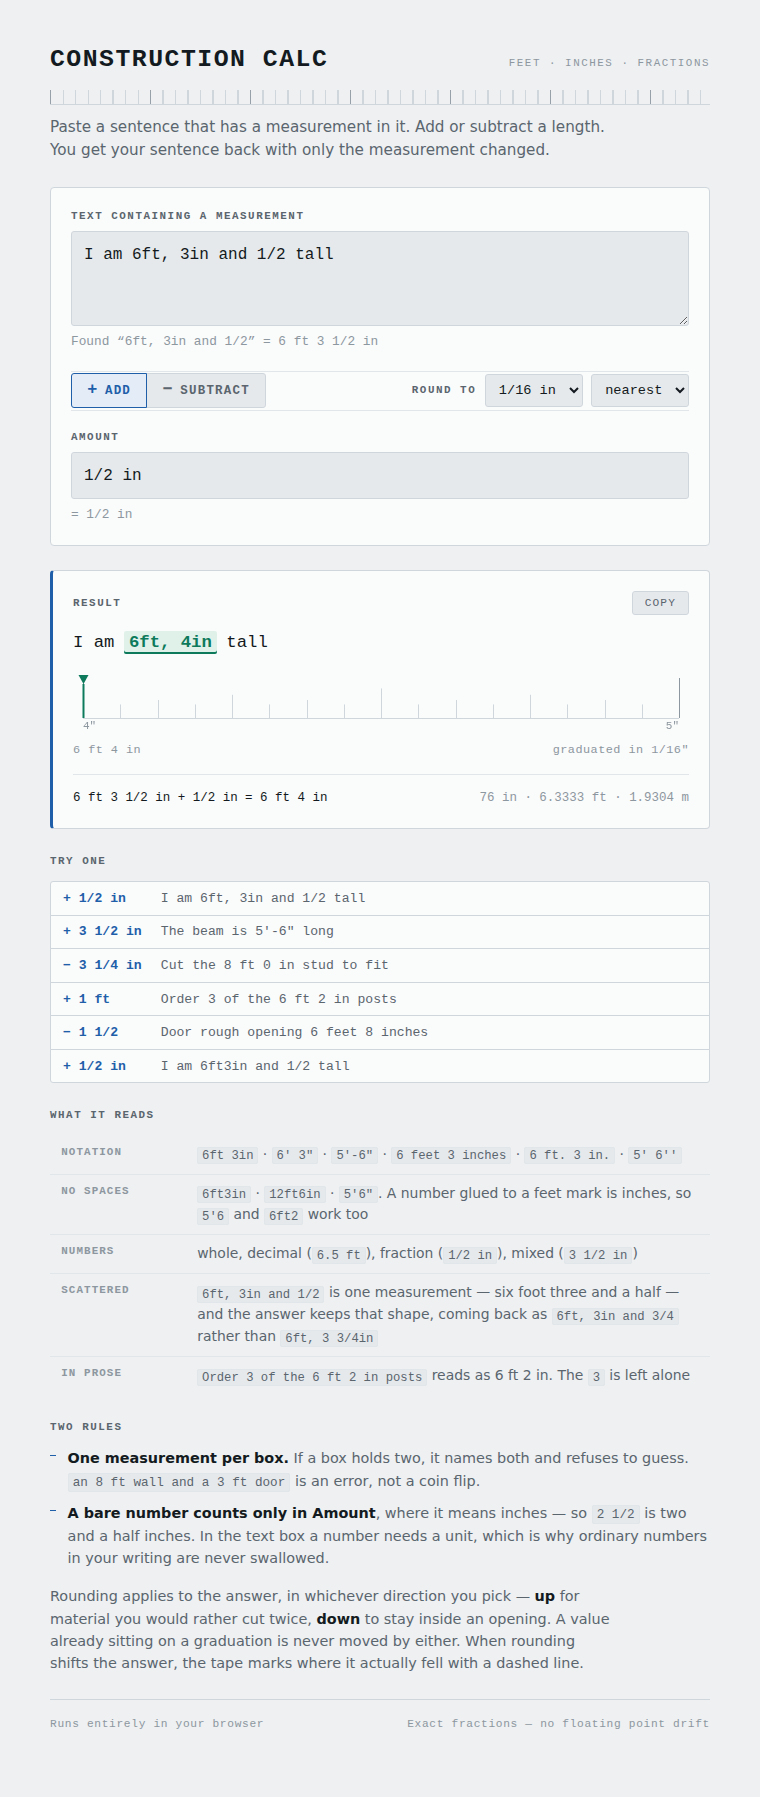
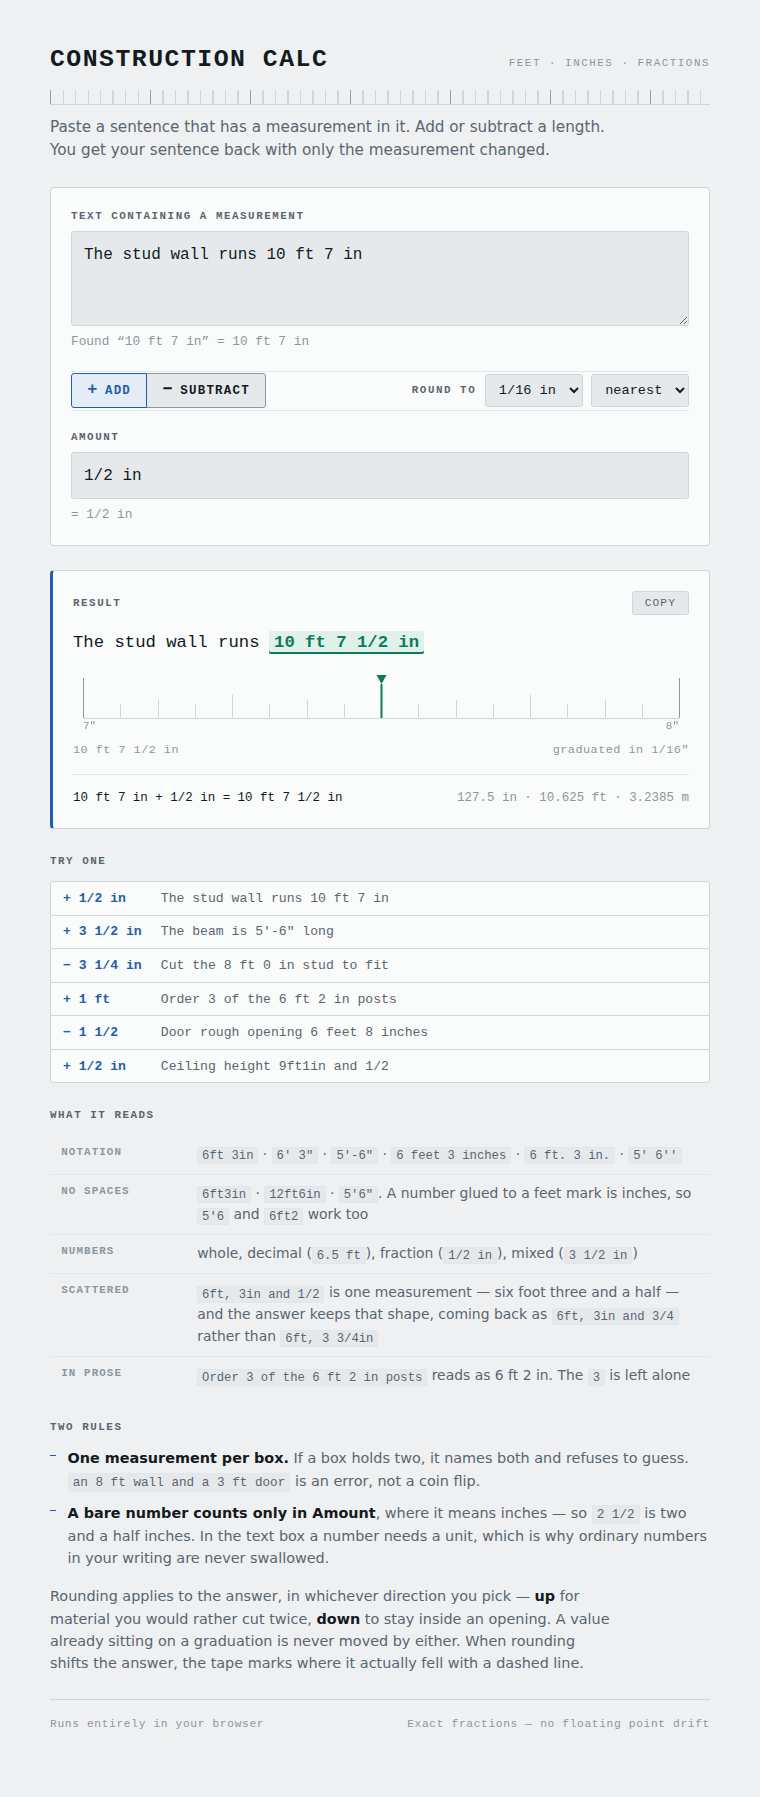
Use a construction default sentence and remember the worksheet
The opening example was a body height left over from the generic version;
it is now a stud wall, and the last chip demonstrates the same glued-unit
parsing with a ceiling height.

The sentence, amount, direction and both rounding settings are saved to
localStorage on each change and restored on the next visit. Storage access
is guarded throughout: where it is unavailable the page works as before and
does not remember, and a corrupt or out-of-range entry is ignored per field.

Claude-Session: https://claude.ai/code/session_01AQDCyLznMd4k5XLzppRpvu

diff --git a/test/browser.smoke.js b/test/browser.smoke.js
@@ -6,6 +6,8 @@ var { chromium } = require('playwright');
 
 var FILE = 'file://' + path.resolve(__dirname, '..', 'index.html');
 var DIR = path.resolve(__dirname, '..');
+var DEFAULT_TEXT = 'The stud wall runs 10 ft 7 in';
+var STORE_KEY = 'construction-calc.v1';
 
 (async function () {
   var browser = await chromium.launch();
@@ -112,8 +114,9 @@ var DIR = path.resolve(__dirname, '..');
       check('bare number in prose is not a measurement', engine.bareInProse, 'none');
 
       // --- UI behavior ---
+      check('default text', await page.inputValue('#text'), DEFAULT_TEXT);
       check('default result', await page.locator('#result').textContent(),
-            'I am 6ft, 4in tall');
+            'The stud wall runs 10 ft 7 1/2 in');
       check('tape visible', await page.locator('#tape').isVisible(), true);
       check('tape scale label', await page.locator('#tape-scale').textContent(),
             'graduated in 1/16"');
@@ -177,6 +180,55 @@ var DIR = path.resolve(__dirname, '..');
       check('tape hidden on error', await page.locator('#tape').isVisible(), false);
       check('copy disabled on error', await page.locator('#copy').isDisabled(), true);
       await page.locator('.chip').nth(0).click();
+
+      // --- the worksheet survives a reload ---
+      await page.fill('#text', 'Header sits 7 ft 3 in above the slab');
+      await page.fill('#amount', '2 1/4 in');
+      await page.click('#op-sub');
+      await page.selectOption('#precision', '8');
+      await page.selectOption('#rounding', 'up');
+      var before = await page.locator('#result').textContent();
+      await page.reload();
+      check('text remembered', await page.inputValue('#text'),
+            'Header sits 7 ft 3 in above the slab');
+      check('amount remembered', await page.inputValue('#amount'), '2 1/4 in');
+      check('direction remembered',
+            await page.locator('#op-sub').getAttribute('aria-pressed'), 'true');
+      check('precision remembered', await page.inputValue('#precision'), '8');
+      check('rounding remembered', await page.inputValue('#rounding'), 'up');
+      check('result recomputed from the remembered worksheet',
+            await page.locator('#result').textContent(), before);
+
+      // An emptied box is a state worth keeping too — it must not spring back
+      // to the default sentence on the next visit.
+      await page.fill('#text', '');
+      await page.reload();
+      check('emptied text stays empty', await page.inputValue('#text'), '');
+
+      // Junk in storage must not take the page down with it.
+      await page.evaluate(function (k) {
+        localStorage.setItem(k, '{ not json');
+      }, STORE_KEY);
+      await page.reload();
+      check('survives unparseable storage', await page.inputValue('#text'), DEFAULT_TEXT);
+
+      await page.evaluate(function (k) {
+        localStorage.setItem(k, JSON.stringify({
+          text: 'a 2 ft board', amount: '1 in',
+          precision: '999', rounding: 'sideways', operation: 'multiply'
+        }));
+      }, STORE_KEY);
+      await page.reload();
+      check('ignores an out-of-range precision', await page.inputValue('#precision'), '16');
+      check('ignores an unknown rounding', await page.inputValue('#rounding'), 'nearest');
+      check('ignores an unknown operation',
+            await page.locator('#op-add').getAttribute('aria-pressed'), 'true');
+      check('still restores the valid fields', await page.inputValue('#text'), 'a 2 ft board');
+
+      // Leave a pristine page behind for the screenshot.
+      await page.evaluate(function (k) { localStorage.removeItem(k); }, STORE_KEY);
+      await page.reload();
+      check('clean slate returns the default', await page.inputValue('#text'), DEFAULT_TEXT);
     }
 
     // --- theme integrity: body must paint its own ground, text must contrast ---

diff --git a/app.js b/app.js
@@ -21,13 +21,15 @@
   var copyable = '';
   var lastTape = null;
 
+  var DEFAULT_TEXT = 'The stud wall runs 10 ft 7 in';
+
   var EXAMPLES = [
-    { text: 'I am 6ft, 3in and 1/2 tall',      amount: '1/2 in',   op: 'add' },
+    { text: DEFAULT_TEXT,                       amount: '1/2 in',   op: 'add' },
     { text: 'The beam is 5\'-6" long',          amount: '3 1/2 in', op: 'add' },
     { text: 'Cut the 8 ft 0 in stud to fit',    amount: '3 1/4 in', op: 'subtract' },
     { text: 'Order 3 of the 6 ft 2 in posts',   amount: '1 ft',     op: 'add' },
     { text: 'Door rough opening 6 feet 8 inches', amount: '1 1/2',  op: 'subtract' },
-    { text: 'I am 6ft3in and 1/2 tall',         amount: '1/2 in',   op: 'add' }
+    { text: 'Ceiling height 9ft1in and 1/2',    amount: '1/2 in',   op: 'add' }
   ];
 
   // A neutral rendering, for describing a value rather than echoing notation.
@@ -183,6 +185,61 @@
     return a || 1;
   }
 
+  /* ---------------- the worksheet, remembered ----------------
+     You rarely measure a wall once. The whole worksheet — sentence, amount,
+     direction and both rounding settings — is kept so the page opens where
+     you left it. Storage can be missing or refuse to answer (a private
+     window, or an embedding that hands the page an opaque origin), so every
+     access is guarded; if it fails the page simply opens on its defaults. */
+
+  var STORE_KEY = 'construction-calc.v1';
+
+  var store = (function () {
+    try {
+      var s = window.localStorage;
+      var probe = STORE_KEY + '.probe';
+      s.setItem(probe, '1');
+      s.removeItem(probe);
+      return s;
+    } catch (e) { return null; }
+  })();
+
+  function save() {
+    if (!store) return;
+    try {
+      store.setItem(STORE_KEY, JSON.stringify({
+        text: el.text.value,
+        amount: el.amount.value,
+        operation: operation,
+        precision: el.precision.value,
+        rounding: el.rounding.value
+      }));
+    } catch (e) { /* full or revoked mid-session; not worth interrupting for */ }
+  }
+
+  // Only adopt a stored choice the control actually offers, so an old or
+  // hand-edited entry cannot leave a select showing nothing.
+  function restoreSelect(node, value) {
+    for (var i = 0; i < node.options.length; i++) {
+      if (node.options[i].value === value) { node.value = value; return; }
+    }
+  }
+
+  function restore() {
+    if (!store) return;
+    var saved;
+    try { saved = JSON.parse(store.getItem(STORE_KEY)); } catch (e) { return; }
+    if (!saved || typeof saved !== 'object') return;
+
+    if (typeof saved.text === 'string') el.text.value = saved.text;
+    if (typeof saved.amount === 'string') el.amount.value = saved.amount;
+    restoreSelect(el.precision, saved.precision);
+    restoreSelect(el.rounding, saved.rounding);
+    if (saved.operation === 'add' || saved.operation === 'subtract') {
+      applyOperation(saved.operation);
+    }
+  }
+
   /* ---------------- main ---------------- */
 
   function update() {
@@ -192,6 +249,8 @@
     // The direction applies to the answer. The two readouts below stay on
     // nearest, so they keep showing faithfully what was typed.
     var mode = el.rounding.value;
+
+    save();
 
     el.copy.textContent = 'Copy';
     el.copy.classList.remove('is-done');
@@ -299,11 +358,15 @@
 
   /* ---------------- events ---------------- */
 
-  function setOperation(next) {
+  function applyOperation(next) {
     operation = next;
     var isAdd = next === 'add';
     el.opAdd.setAttribute('aria-pressed', String(isAdd));
     el.opSub.setAttribute('aria-pressed', String(!isAdd));
+  }
+
+  function setOperation(next) {
+    applyOperation(next);
     update();
   }
 
@@ -374,5 +437,6 @@
     attributes: true, attributeFilter: ['data-theme']
   });
 
+  restore();
   update();
 })();

diff --git a/index.html b/index.html
@@ -26,7 +26,7 @@
   <section class="card">
     <div class="field" id="text-field">
       <label class="field-label" for="text">Text containing a measurement</label>
-      <textarea id="text" rows="3" spellcheck="false">I am 6ft, 3in and 1/2 tall</textarea>
+      <textarea id="text" rows="3" spellcheck="false">The stud wall runs 10 ft 7 in</textarea>
       <p class="readout" id="text-readout"></p>
     </div>
 

diff --git a/README.md b/README.md
@@ -82,6 +82,24 @@ can see, and reads the way a rule does, with tick heights stepping down by halvi
 When rounding moves the answer, a dashed line marks where the unrounded value
 actually fell, so you can see exactly what the direction cost you.
 
+## Where you left off
+
+You rarely measure a wall once. The whole worksheet — the sentence, the amount,
+add or subtract, and both rounding settings — is saved to `localStorage` under
+`construction-calc.v1` on every change and restored on the next visit. An empty
+box counts as state and stays empty; it does not spring back to the default
+sentence.
+
+Nothing is sent anywhere — the key lives in your browser, on your machine.
+
+Storage is not always reachable. A private window, or an embedding that hands
+the page an opaque origin (a `sandbox`ed iframe without `allow-same-origin`,
+where `localStorage` throws `SecurityError` on access), leaves the page working
+exactly as before and simply not remembering. Every read and write is guarded,
+and a stored entry that is unparseable or names a precision, rounding mode or
+direction the controls do not offer is ignored field by field rather than
+taken on faith.
+
 ## Running it
 
 It is four static files and no dependencies — no build step, no bundler, no
